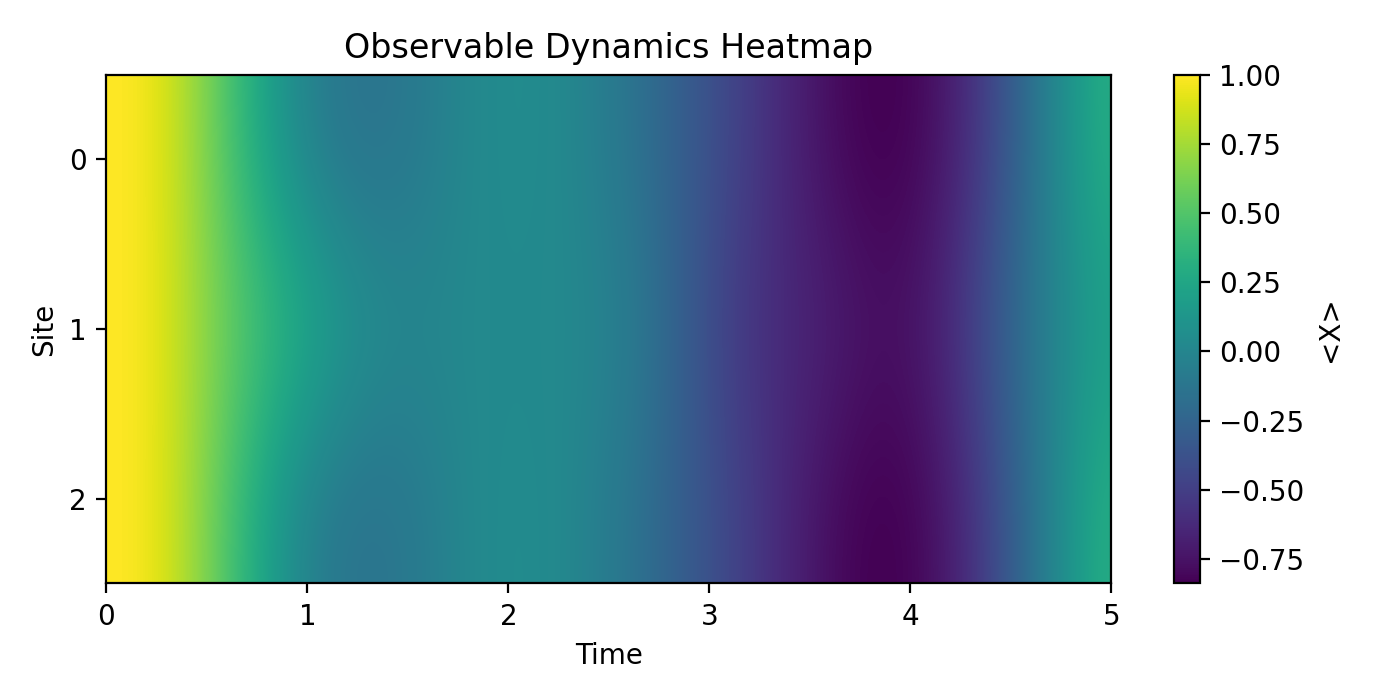
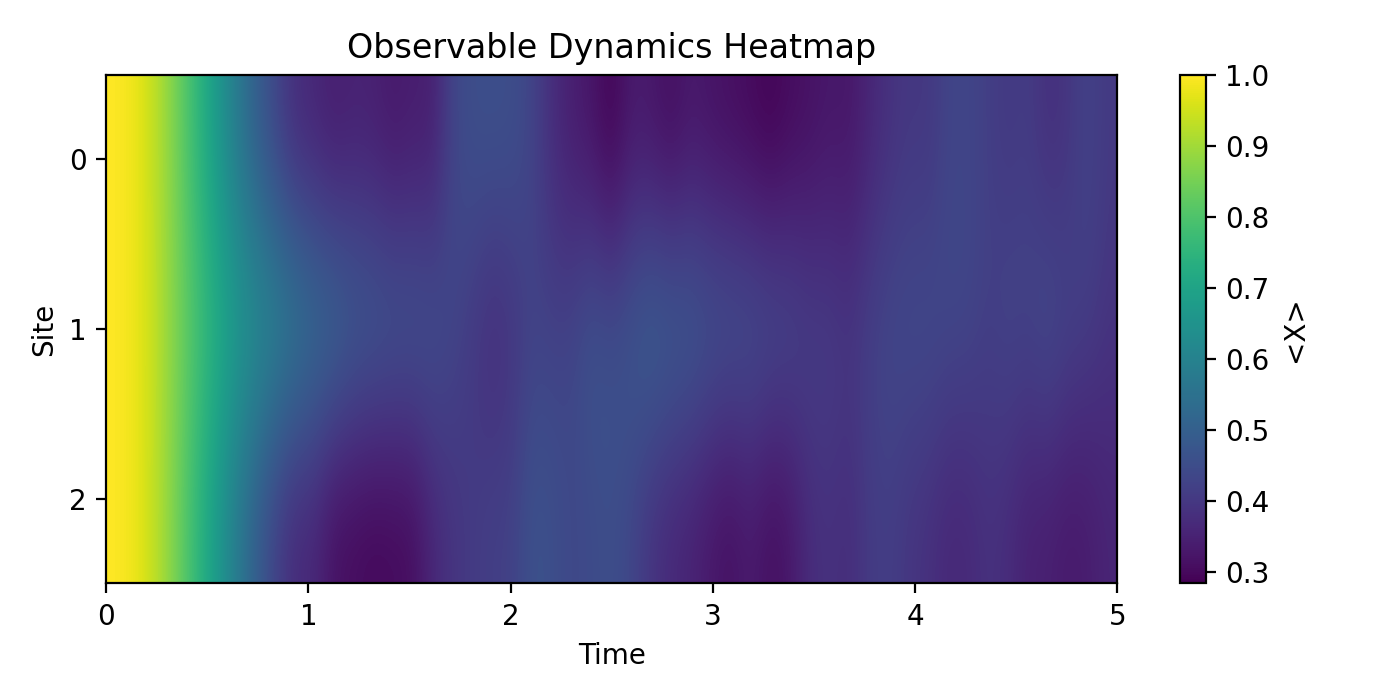
updated example

diff --git a/adbk_examples/analog_simulation.py b/adbk_examples/analog_simulation.py
@@ -42,7 +42,8 @@ def main():
     threshold = 1e-6 # Accuracy of the simulation. Lower is more accurate, but slower.
 
     # 3) Noise model and scheduled jumps
-    gamma = 0  # Noise strength acting on every site. Use between 1e-3 and 1e-1.
+    gamma = 1  # Noise strength acting on every site. Use between 1e-3 and 1e-1.
+    processes = [{"name": "lowering", "sites": [site], "strength": gamma} for site in range(length)]
     scheduled_jump_time = None # Time of a scheduled jump. Set to None to disable.
     scheduled_jump_site = 2 # Location of scheduled jump
     scheduled_jump_operator = "lowering" # Type of noise scheduled
@@ -59,7 +60,6 @@ def main():
     state = MPS(length, state=initial_state)
 
     # Build noise model directly in this script to keep it easy to modify.
-    processes = [{"name": "pauli_z", "sites": [site], "strength": gamma} for site in range(length)]
     scheduled_jumps = []
     if scheduled_jump_time is not None:
         if scheduled_jump_site < 0 or scheduled_jump_site >= length:
@@ -77,6 +77,7 @@ def main():
         threshold=threshold,
         order=1,
         sample_timesteps=True,
+        solver="MCWF"
     )
 
     simulator.run(state, hamiltonian, sim_params, noise_model)